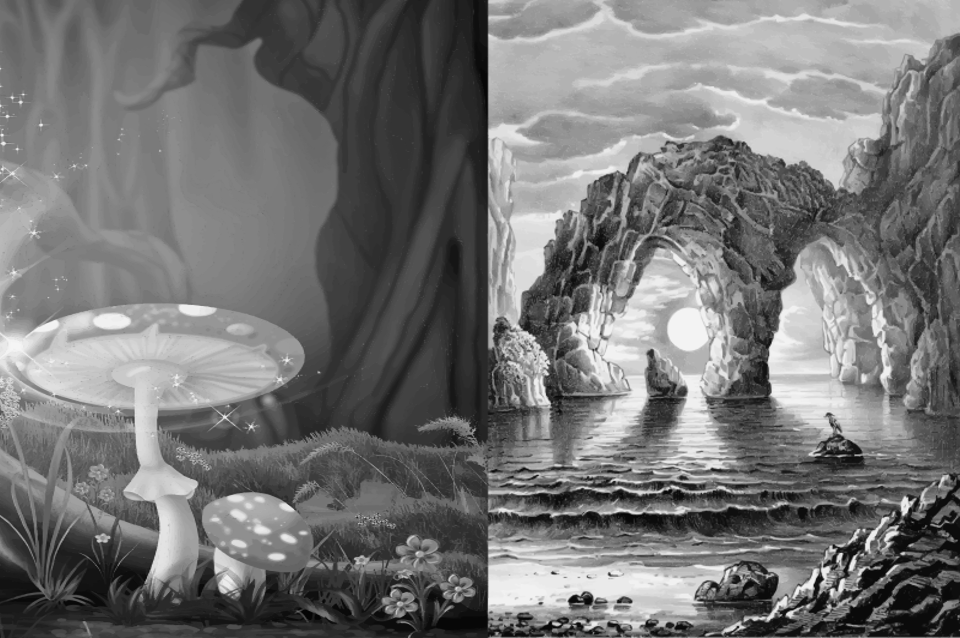
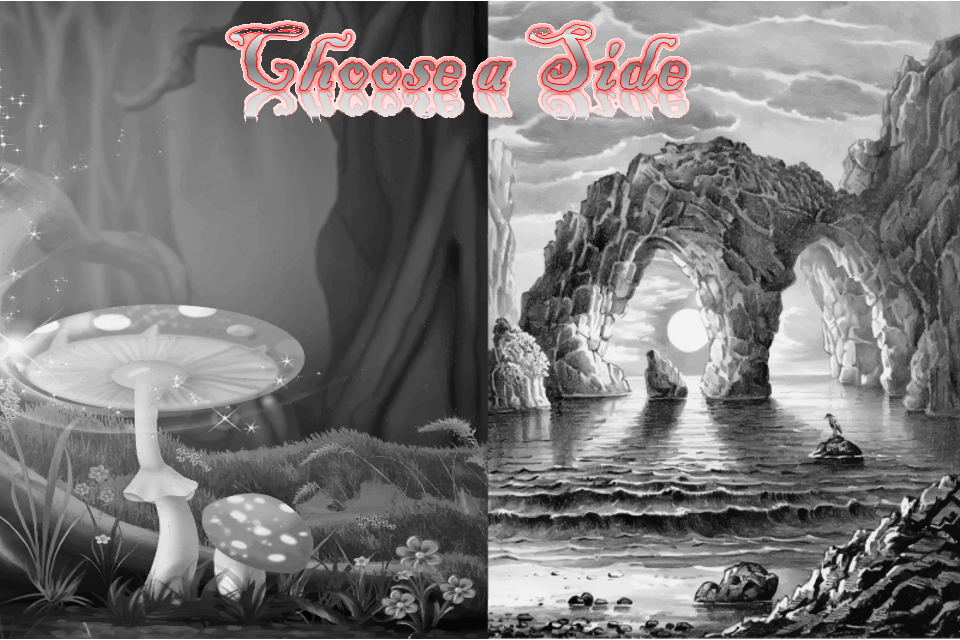
Main Commit
Added the flexibility to switch between witch and fairy in ending screen. Added an instruction and splash page to the story state.

diff --git a/js/states/Preload.js b/js/states/Preload.js
@@ -8,10 +8,14 @@ Magic.PreloadState = {
         this.load.setPreloadSprite(preloadProgress);
 
         this.load.image('chooseScreen', 'assets/images/chooseScreen.png');
+        this.load.image('instructions', 'assets/images/instructions.png');
+        this.load.image('main', 'assets/images/main.png');
+        this.load.image('start', 'assets/images/start.png');
         this.load.image('coupon', 'assets/images/saveMagic_coupon.jpg');
         //Witch Version
         this.load.image('witchBackground', 'assets/images/witchBackground.png'); 
         this.load.image('responseWitch', 'assets/images/responseScreenWitch.png'); 
+        this.load.image('endWitch', 'assets/images/endWitch.png'); 
         this.load.image('witch', 'assets/images/witch.png'); 
         this.load.image('witchBlackout', 'assets/images/witchBlackout.png');
         
@@ -21,6 +25,7 @@ Magic.PreloadState = {
         this.load.image('cauldron', 'assets/images/cauldron.png');
         this.load.image('blackCat', 'assets/images/blackCat.png');
         this.load.image('witchBubble', 'assets/images/witchBubble.png');
+        this.load.image('endTextWitch', 'assets/images/endTextWitch.png');
         
         this.load.spritesheet('potions', 'assets/images/potionsSprite.png', 75, 100, 9);
         
@@ -37,6 +42,7 @@ Magic.PreloadState = {
         this.load.image('magicCarpet', 'assets/images/magicCarpet.png');
         this.load.image('unicorn', 'assets/images/unicorn.png');
         this.load.image('fairyDust', 'assets/images/fairyDust.png');
+        this.load.image('endTextFairy', 'assets/images/endTextFairy.png');
         
         this.load.spritesheet('wand', 'assets/images/wandSprite.png', 159, 100, 9);
         this.load.spritesheet('fairyEmit', 'assets/images/fairyEmit.png', 12.5, 13, 8);

diff --git a/js/states/End.js b/js/states/End.js
@@ -3,7 +3,7 @@ var Magic = Magic || {};
 Magic.EndState = {
     create: function ()
     {
-        this.background = this.add.sprite(0, 0, 'responseFairy');
+        this.background = this.add.sprite(0, 0, Magic.GameState.magicData[Magic.SaveState].EndBackground);
         this.coverSprites = this.add.group();
         
         if(Magic.displayGroup != undefined)
@@ -13,13 +13,14 @@ Magic.EndState = {
         }
         else
         {
-            this.character = this.add.sprite(1000, -50, 'storyFairy');
+            this.endText = this.add.sprite(0, 0, 'endTextWitch');
+            this.character = this.add.sprite(1000, -50, Magic.GameState.magicData[Magic.SaveState].EndAnim);
             this.anim = this.character.animations.add('fly');
             let flyTween = this.add.tween(this.character).to({x: this.world.centerX, y: this.world.centerY - 100}, 2000, "Linear", true);
             flyTween.onComplete.add(function()
             {
                 this.anim.stop();
-                this.character.loadTexture('endFairy');
+                this.character.loadTexture(Magic.GameState.magicData[Magic.SaveState].EndChar);
                 
                 this.couponAnim();
                 this.world.bringToTop(this.coverSprites);
@@ -42,7 +43,7 @@ Magic.EndState = {
         {
             for(let j=300, maxy=(this.coupon.texture.height*0.7)+300; j<=maxy; j=j+13)
             {
-                let cover = this.add.sprite(i, j, 'fairyEmit', 0);
+                let cover = this.add.sprite(i, j, Magic.GameState.magicData[Magic.SaveState].Particle, 0);
                 let coverAnim = cover.animations.add('flash');
                 coverAnim.play(Math.floor(Math.random() * 10) + 1, true);
                 this.coverSprites.add(cover);

diff --git a/js/states/Story.js b/js/states/Story.js
@@ -5,7 +5,6 @@ Magic.StoryState = {
     {
         //Sets the dual Background
         this.background = this.add.sprite(0, 0, 'chooseScreen');
-        this.background.inputEnabled = true;
         //When the background is clicked set ending to true and store the mouse position
         this.background.events.onInputDown.add(function()
         {
@@ -43,7 +42,24 @@ Magic.StoryState = {
         this.poof = null;
         //Set the state -> fairy or witch, witch by default
         Magic.SaveState = "Witch";
-    },
+        //Main Screen for splash screen and instructions
+        this.main = this.add.sprite(0, 0, 'main');
+        //Button switches from splash to instructions and destroys after instructions to reveal choice screen
+        this.start = this.add.button(350, 530, 'start', function()
+        {
+            if(this.main.key != 'instructions')
+            {
+                this.main.loadTexture('instructions');
+            }
+            else
+            {
+                this.main.destroy();
+                this.start.destroy();
+                this.background.inputEnabled = true;
+            }
+        }, this);
+        this.start.scale.setTo(0.5, 0.5);
+;    },
     peekaboo: function(chosen)
     {
         //If poof is storing something stop the tween

diff --git a/js/states/Game.js b/js/states/Game.js
@@ -4,6 +4,16 @@ Magic.GameState = {
     
     create: function ()
     {
+        //Stops the game from being played if it will still be reloading after transition completes
+        if(Magic.displayGroup != undefined)
+        {
+            this.input.enabled = false;
+        }
+        else
+        {
+            this.input.enabled = true;
+        }
+        
         this.magicData = JSON.parse(this.game.cache.getText('magicData'));
         //Holds the function that will be called by Items, must be stored as a variable as is passed as a variable for improved flexibility
         //A little repetitive, but improves readability
